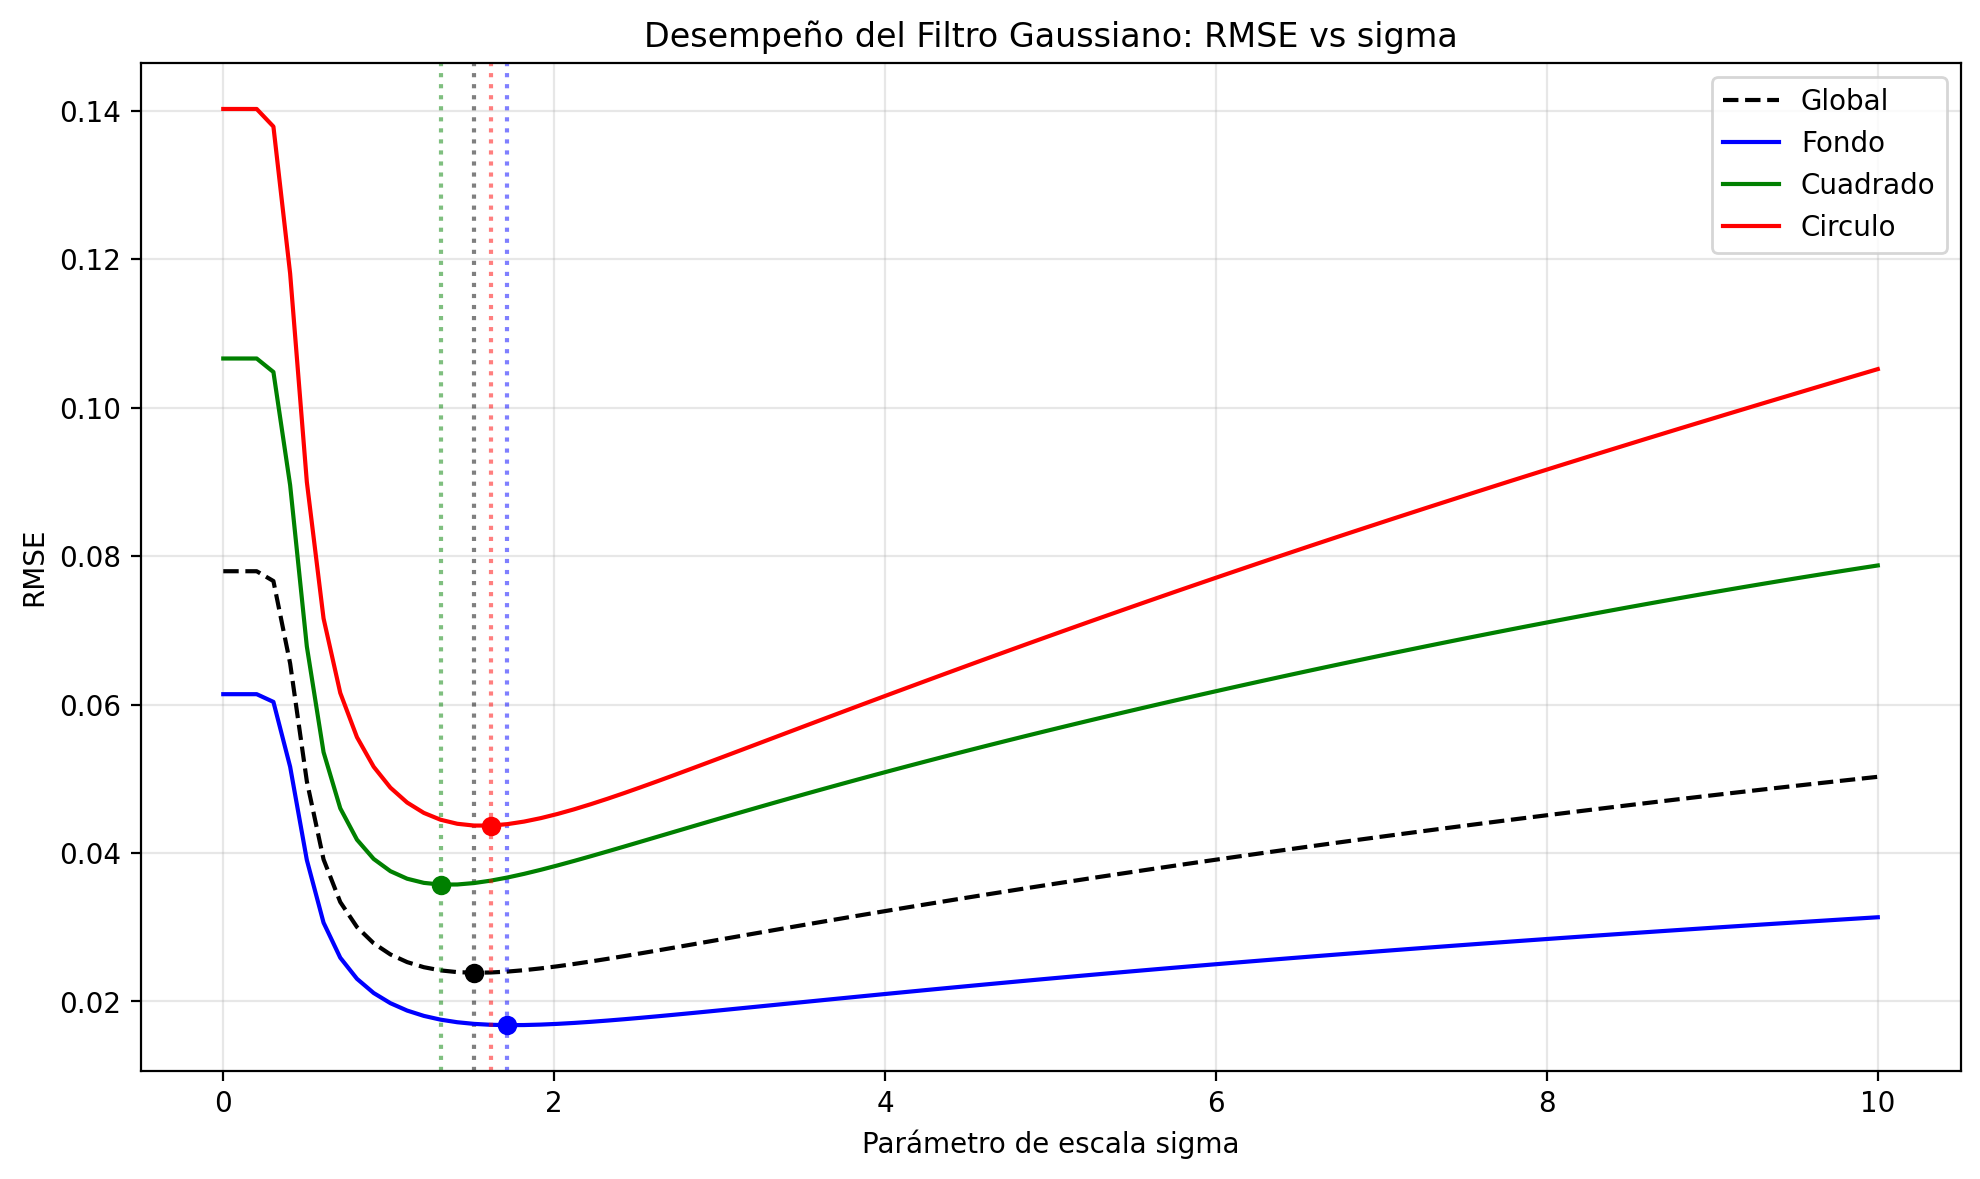
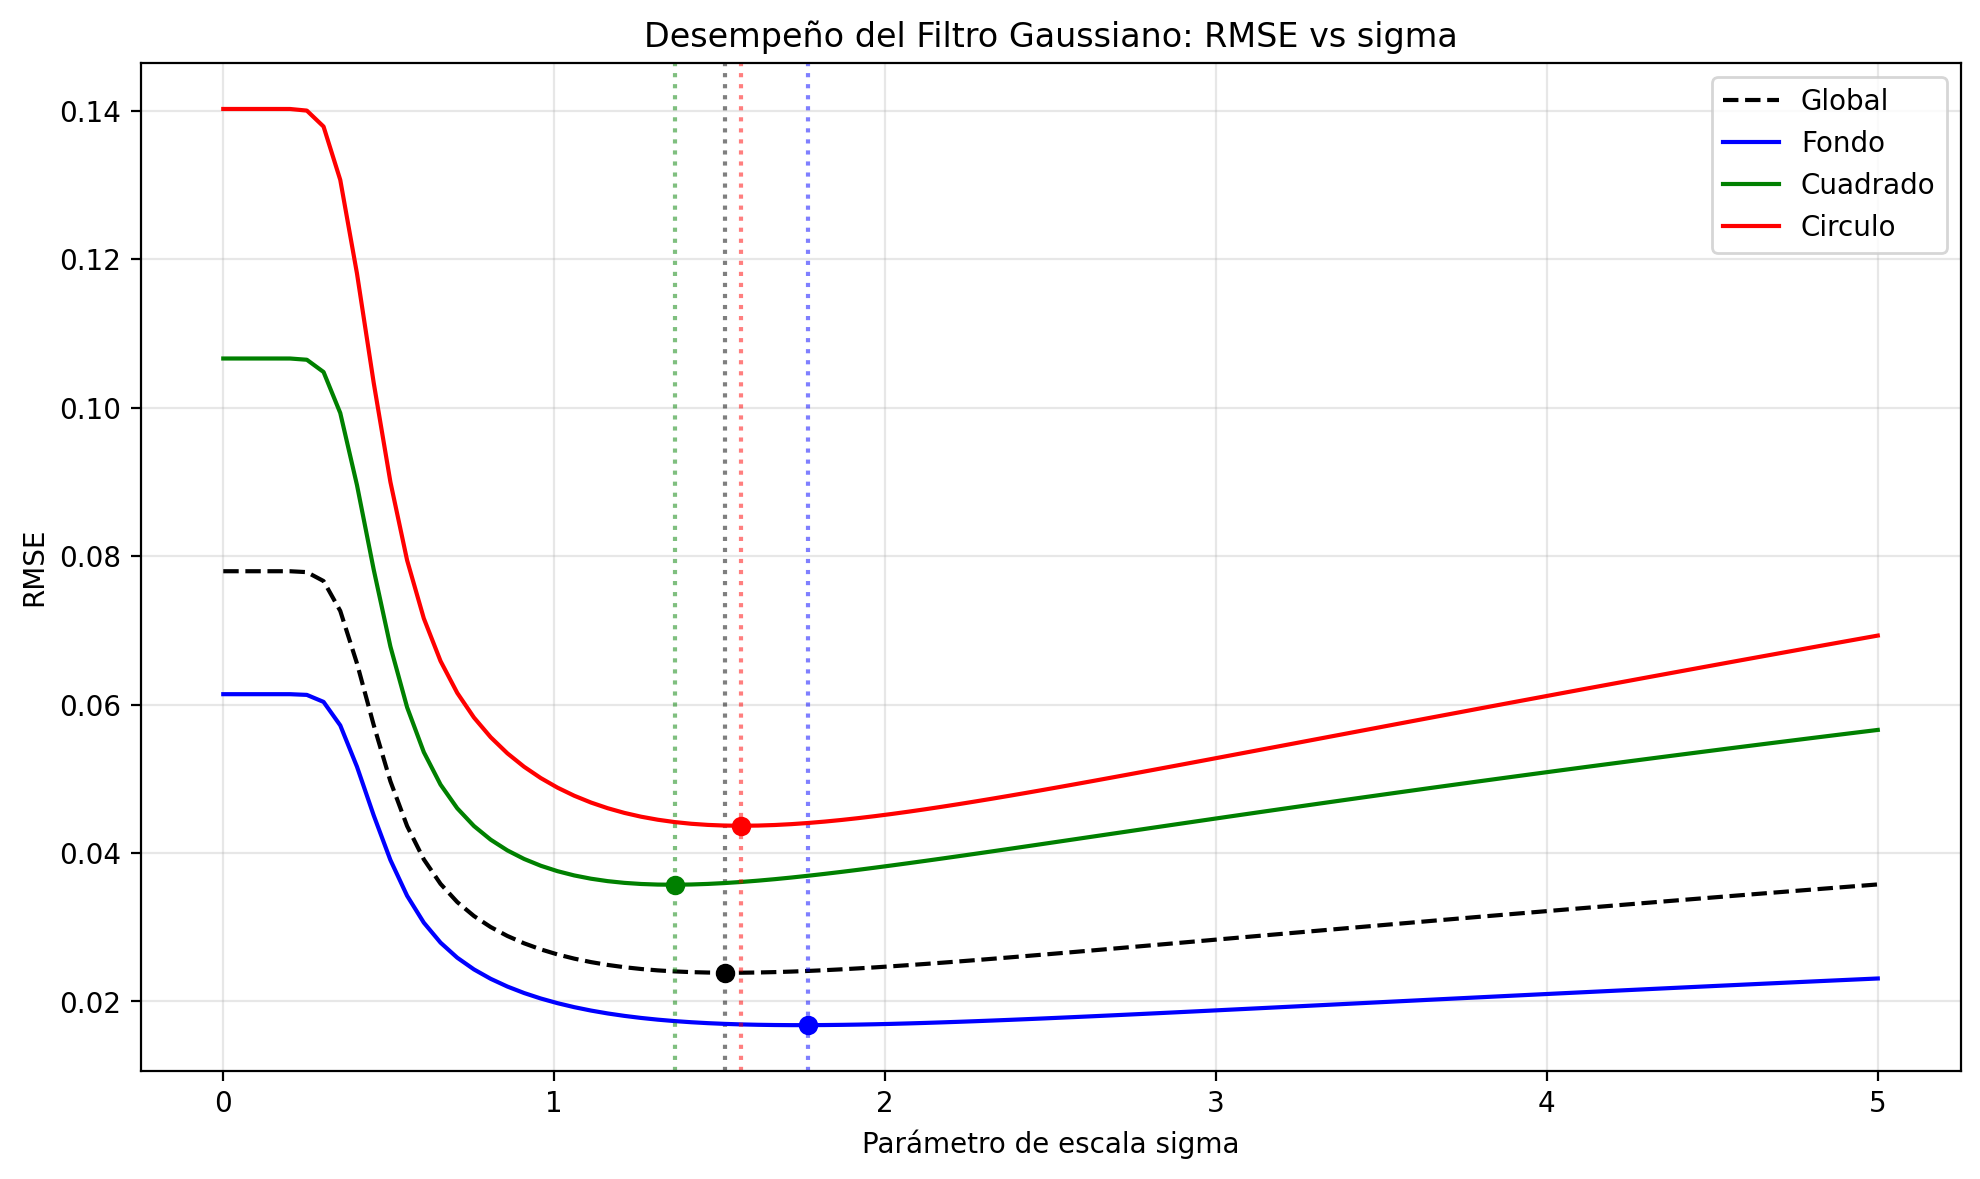
impP2equis

diff --git a/Pregunta 2/implementacion.py b/Pregunta 2/implementacion.py
@@ -45,3 +45,55 @@ def coef_constante(valor=1.0):
     c.cmax = float(valor)
     c.nombre = f"const({valor:g})"
     return c
+
+
+# ---------------------------------------------------------------- estabilidad
+def lambda_estable(cmax):
+    
+    return 1.0 / (4.0 * cmax)
+ 
+ 
+# ---------------------------------------------------------------- un paso y bucle
+def paso_difusion(u, c, lam):
+
+    up = np.pad(u, 1, mode='edge')
+    cp = np.pad(c, 1, mode='edge')
+    U, C = up[1:-1, 1:-1], cp[1:-1, 1:-1]
+    flujo = np.zeros_like(u)
+    for dy, dx in ((-1, 0), (1, 0), (0, -1), (0, 1)):
+        Un = up[1 + dy:1 + dy + u.shape[0], 1 + dx:1 + dx + u.shape[1]]
+        Cn = cp[1 + dy:1 + dy + u.shape[0], 1 + dx:1 + dx + u.shape[1]]
+        flujo += 0.5 * (C + Cn) * (Un - U)
+    return u + lam * flujo
+ 
+ 
+def difusion_anisotropica(u0, coef, lam, n_iter, referencia=None, guardar=()):
+    """Difusión general.
+    coef: función u -> mapa c (misma forma que u); se evalúa sobre u^t en toda iteración.
+    lam: paso temporal.   
+    n_iter: número de iteraciones.
+    referencia: imagen para registrar RMSE(t).
+    guardar: iteraciones cuyo estado se guarda.
+    Retorna (u_final, info). Si lam excede la cota 1/(4*cmax_observado) se reporta
+    en info['viola_estabilidad'] para estudiar la instabilidad.
+    """
+    u = u0.astype(np.float64).copy()
+    info = {'cmax': [], 'rmse': [], 'snap': {}, 'viola_estabilidad': False, 'diverge_en': None}
+    if referencia is not None:
+        info['rmse'].append(rmse(referencia, u))
+    for t in range(1, n_iter + 1):
+        c = coef(u)                                  # c(x,y,t) a partir de u^t
+        cmax_t = float(np.max(c))
+        info['cmax'].append(cmax_t)
+        if lam * 4.0 * cmax_t > 1.0 + 1e-12:
+            info['viola_estabilidad'] = True
+        u = paso_difusion(u, c, lam)
+        if not np.all(np.isfinite(u)) or np.abs(u).max() > 1e6:
+            info['diverge_en'] = t
+            break
+        if referencia is not None:
+            info['rmse'].append(rmse(referencia, u))
+        if t in guardar:
+            info['snap'][t] = u.copy()
+    return u, info
+ 

diff --git a/Pregunta 1/experimentacion.py b/Pregunta 1/experimentacion.py
@@ -27,8 +27,8 @@ if __name__ == "__main__":
     #para guardar imagenes
     output_dir = Path(__file__).resolve().parent / "figures_p1"
 
-    print("indique que experimento desea ejcutar: \n 1. Barrido de sigma \n 2. Filtrado adaptativo \n 3. Barrido de sigma_aux")
-    opcion = input("Ingrese su elección (1, 2 o 3): ")
+    print("indique que experimento desea ejcutar: \n 1. Barrido de sigma \n 2. Filtrado adaptativo")
+    opcion = input("Ingrese su elección (1 o 2): ")
 
 
     if int(opcion) == 1:
